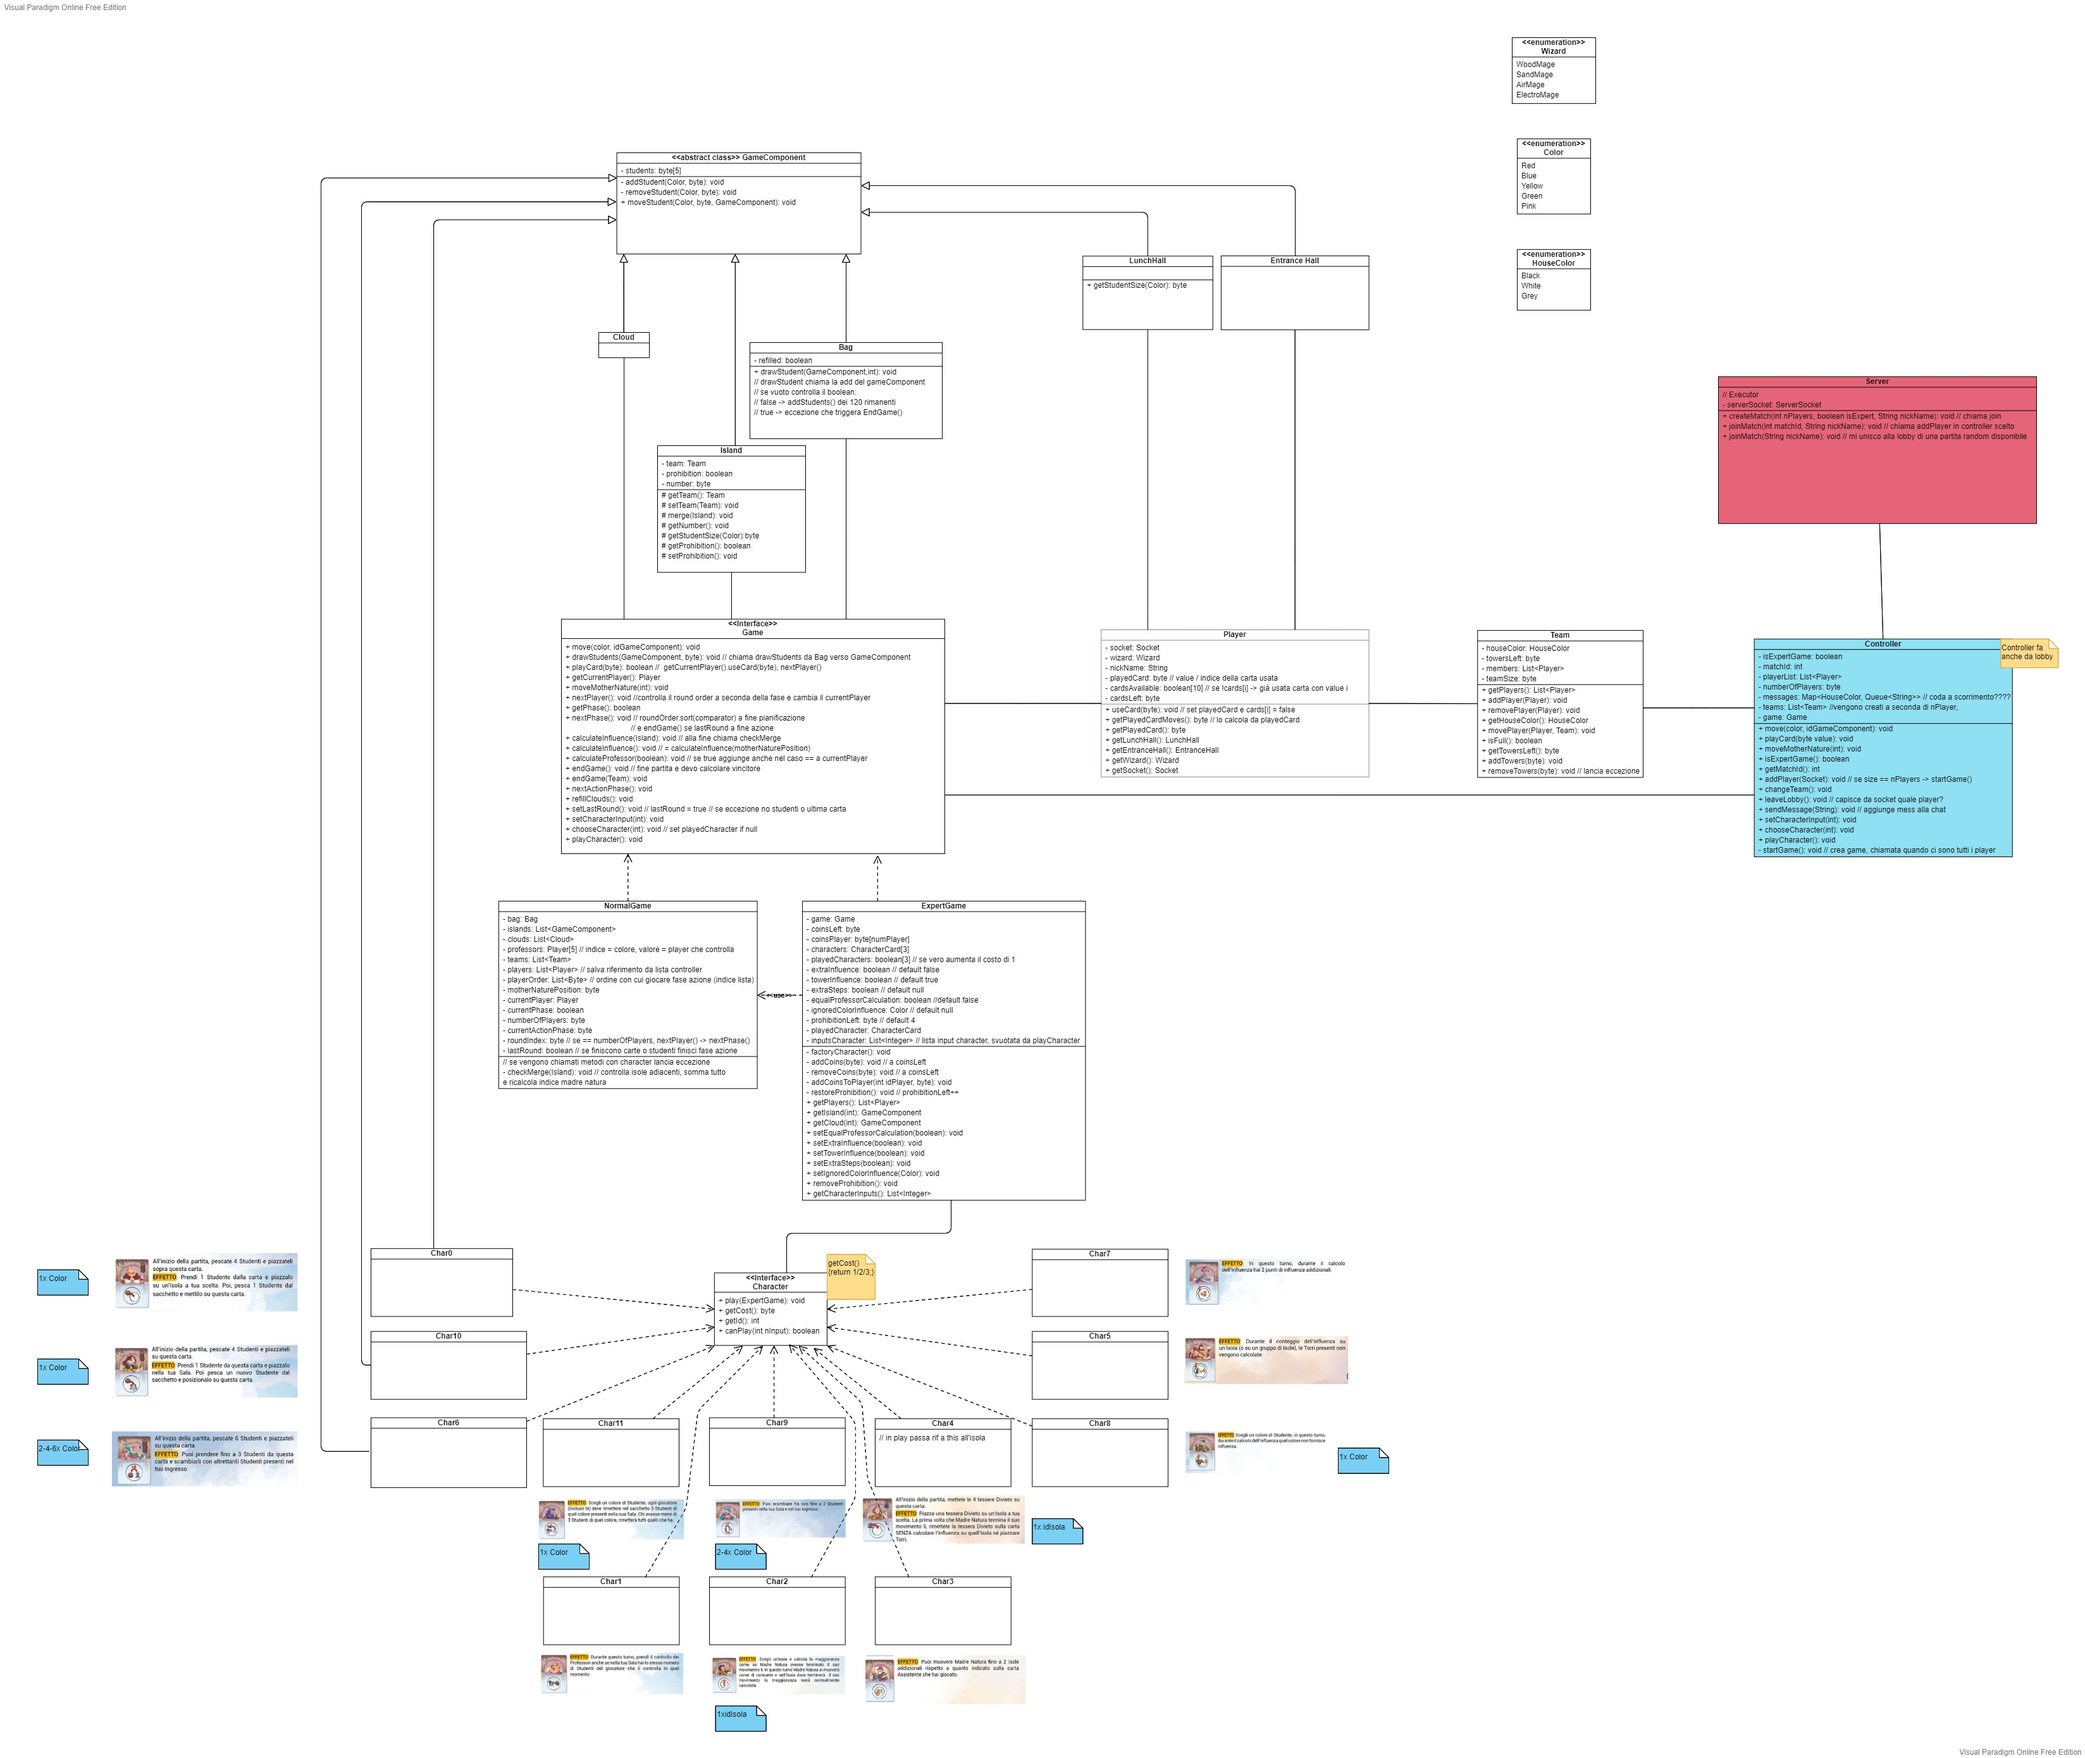
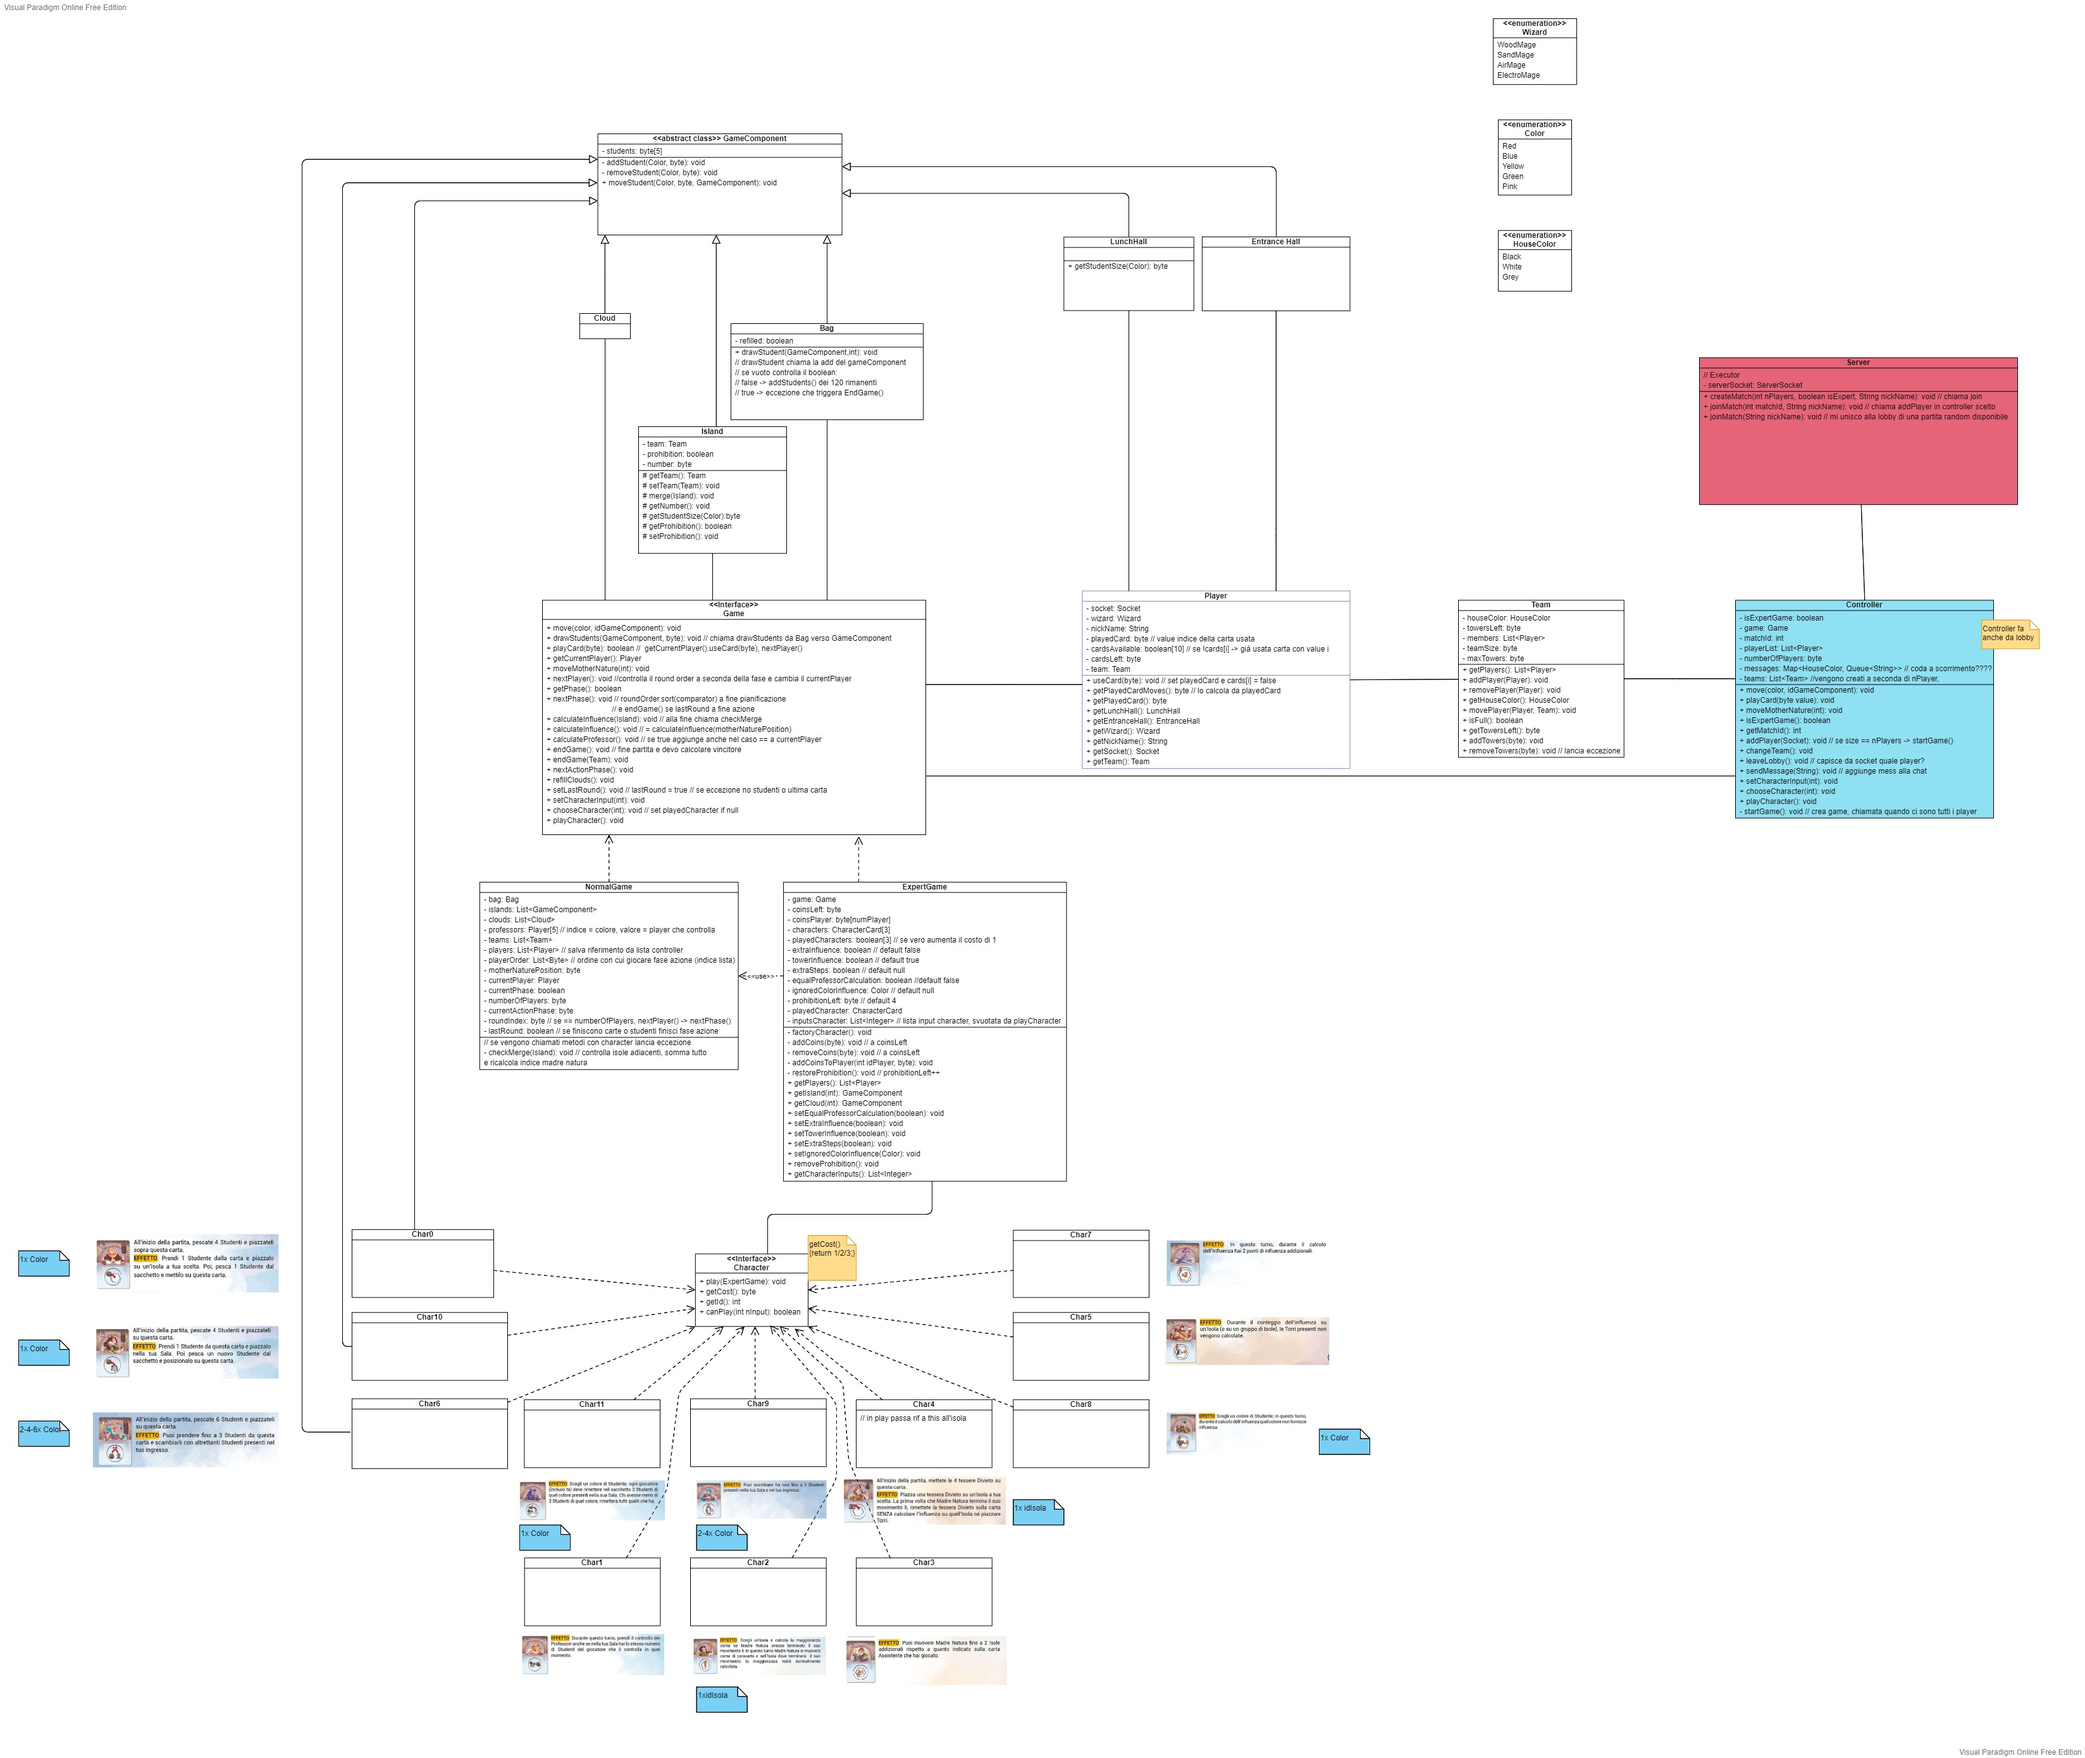
Implemented Player, renamed CardNotFoundException to UsedCardException, Uml updated

diff --git a/src/main/java/it/polimi/ingsw/model/Player.java b/src/main/java/it/polimi/ingsw/model/Player.java
@@ -1,7 +1,10 @@
 package it.polimi.ingsw.model;
 
 
-import it.polimi.ingsw.exceptions.CardNotFoundException;
+import it.polimi.ingsw.exceptions.NotAllowedException;
+import it.polimi.ingsw.exceptions.UnexpectedValueException;
+import it.polimi.ingsw.exceptions.UsedCardException;
+import it.polimi.ingsw.exceptions.WinnerException;
 
 import java.net.Socket;
 import java.util.Comparator;
@@ -9,6 +12,7 @@ import java.util.Objects;
 
 public class Player implements Comparator<Player> {
     private final Socket socket;
+    private final Team team;
     private final Wizard wizard;
     private final String nickName;
     private byte playedCard;
@@ -18,8 +22,9 @@ public class Player implements Comparator<Player> {
     private final LunchHall lunchHall;
 
 
-    public Player(Socket socket, Wizard wizard, String nickName) {
+    public Player(Socket socket, Team team, Wizard wizard, String nickName) {
         this.socket = socket;
+        this.team = team;
         this.wizard = wizard;
         this.nickName = nickName;
         this.cardsAvailable = new boolean[]{true, true, true, true, true, true, true, true, true, true};
@@ -29,29 +34,23 @@ public class Player implements Comparator<Player> {
         this.lunchHall = new LunchHall(this);
     }
 
-    public void useCard(Card card) throws CardNotFoundException {
-        if (cards.contains(card)) {
-            this.playedCard = card;
-            cards.remove(card);
-        } else {
-            throw new CardNotFoundException();
-        }
-
+    public void useCard(byte card) throws UsedCardException, UnexpectedValueException, NotAllowedException, WinnerException {
+        if (card < 1 || card > 10) throw new UnexpectedValueException();
+        if (!cardsAvailable[card]) throw new UsedCardException();
+        if (cardsLeft < 1) throw new NotAllowedException("No more cards");
+        playedCard = card;
+        cardsLeft--;
+        cardsAvailable[card] = false;
+        if (cardsLeft == 0) throw new WinnerException();
     }
 
-    public void addTowers(byte towers) {
-
-        towerLeft += towers;
+    public byte getPlayedCardMoves() {
+        // card max movement is 1 for card 1 and 2, 2 for card 3 and 4, ..., 5 for card 9 and 10
+        return (byte) ((playedCard + 1) / 2);
     }
 
-    // removes towers and returns the number of tower left, to be read by Game
-    public byte removeTowers(byte towers) {
-        towerLeft -= towers;
-        return towerLeft;
-    }
-
-    public Wizard getWizard() {
-        return wizard;
+    public byte getPlayedCard() {
+        return playedCard;
     }
 
     public LunchHall getLunchHall() {
@@ -59,16 +58,23 @@ public class Player implements Comparator<Player> {
     }
 
     public EntranceHall getEntranceHall() {
-
         return entranceHall;
     }
 
-    public byte getTowerLeft() {
-        return towerLeft;
+    public Wizard getWizard(){
+        return wizard;
     }
 
-    public Card getPlayedCard() {
-        return playedCard;
+    public String getNickName() {
+        return nickName;
+    }
+
+    public Socket getSocket() {
+        return socket;
+    }
+
+    public Team getTeam() {
+        return team;
     }
 
     @Override
@@ -85,8 +91,8 @@ public class Player implements Comparator<Player> {
     }
 
     @Override
-    public int compare(Player o1, Player o2) throws ClassCastException {
-        return Byte.compare((o1).getPlayedCard().getValue(), (o2).getPlayedCard().getValue());
+    public int compare(Player p1, Player p2) throws ClassCastException {
+        return Byte.compare(p1.getPlayedCard(), p2.getPlayedCard());
 
     }
 }

diff --git a/src/main/java/it/polimi/ingsw/exceptions/UsedCardException.java b/src/main/java/it/polimi/ingsw/exceptions/UsedCardException.java
@@ -1,8 +1,8 @@
 package it.polimi.ingsw.exceptions;
 
-public class CardNotFoundException extends GameException {
+public class UsedCardException extends GameException {
     @Override
     public String getErrorMessage() {
-        return "Card not found";
+        return "Card already used";
     }
 }
